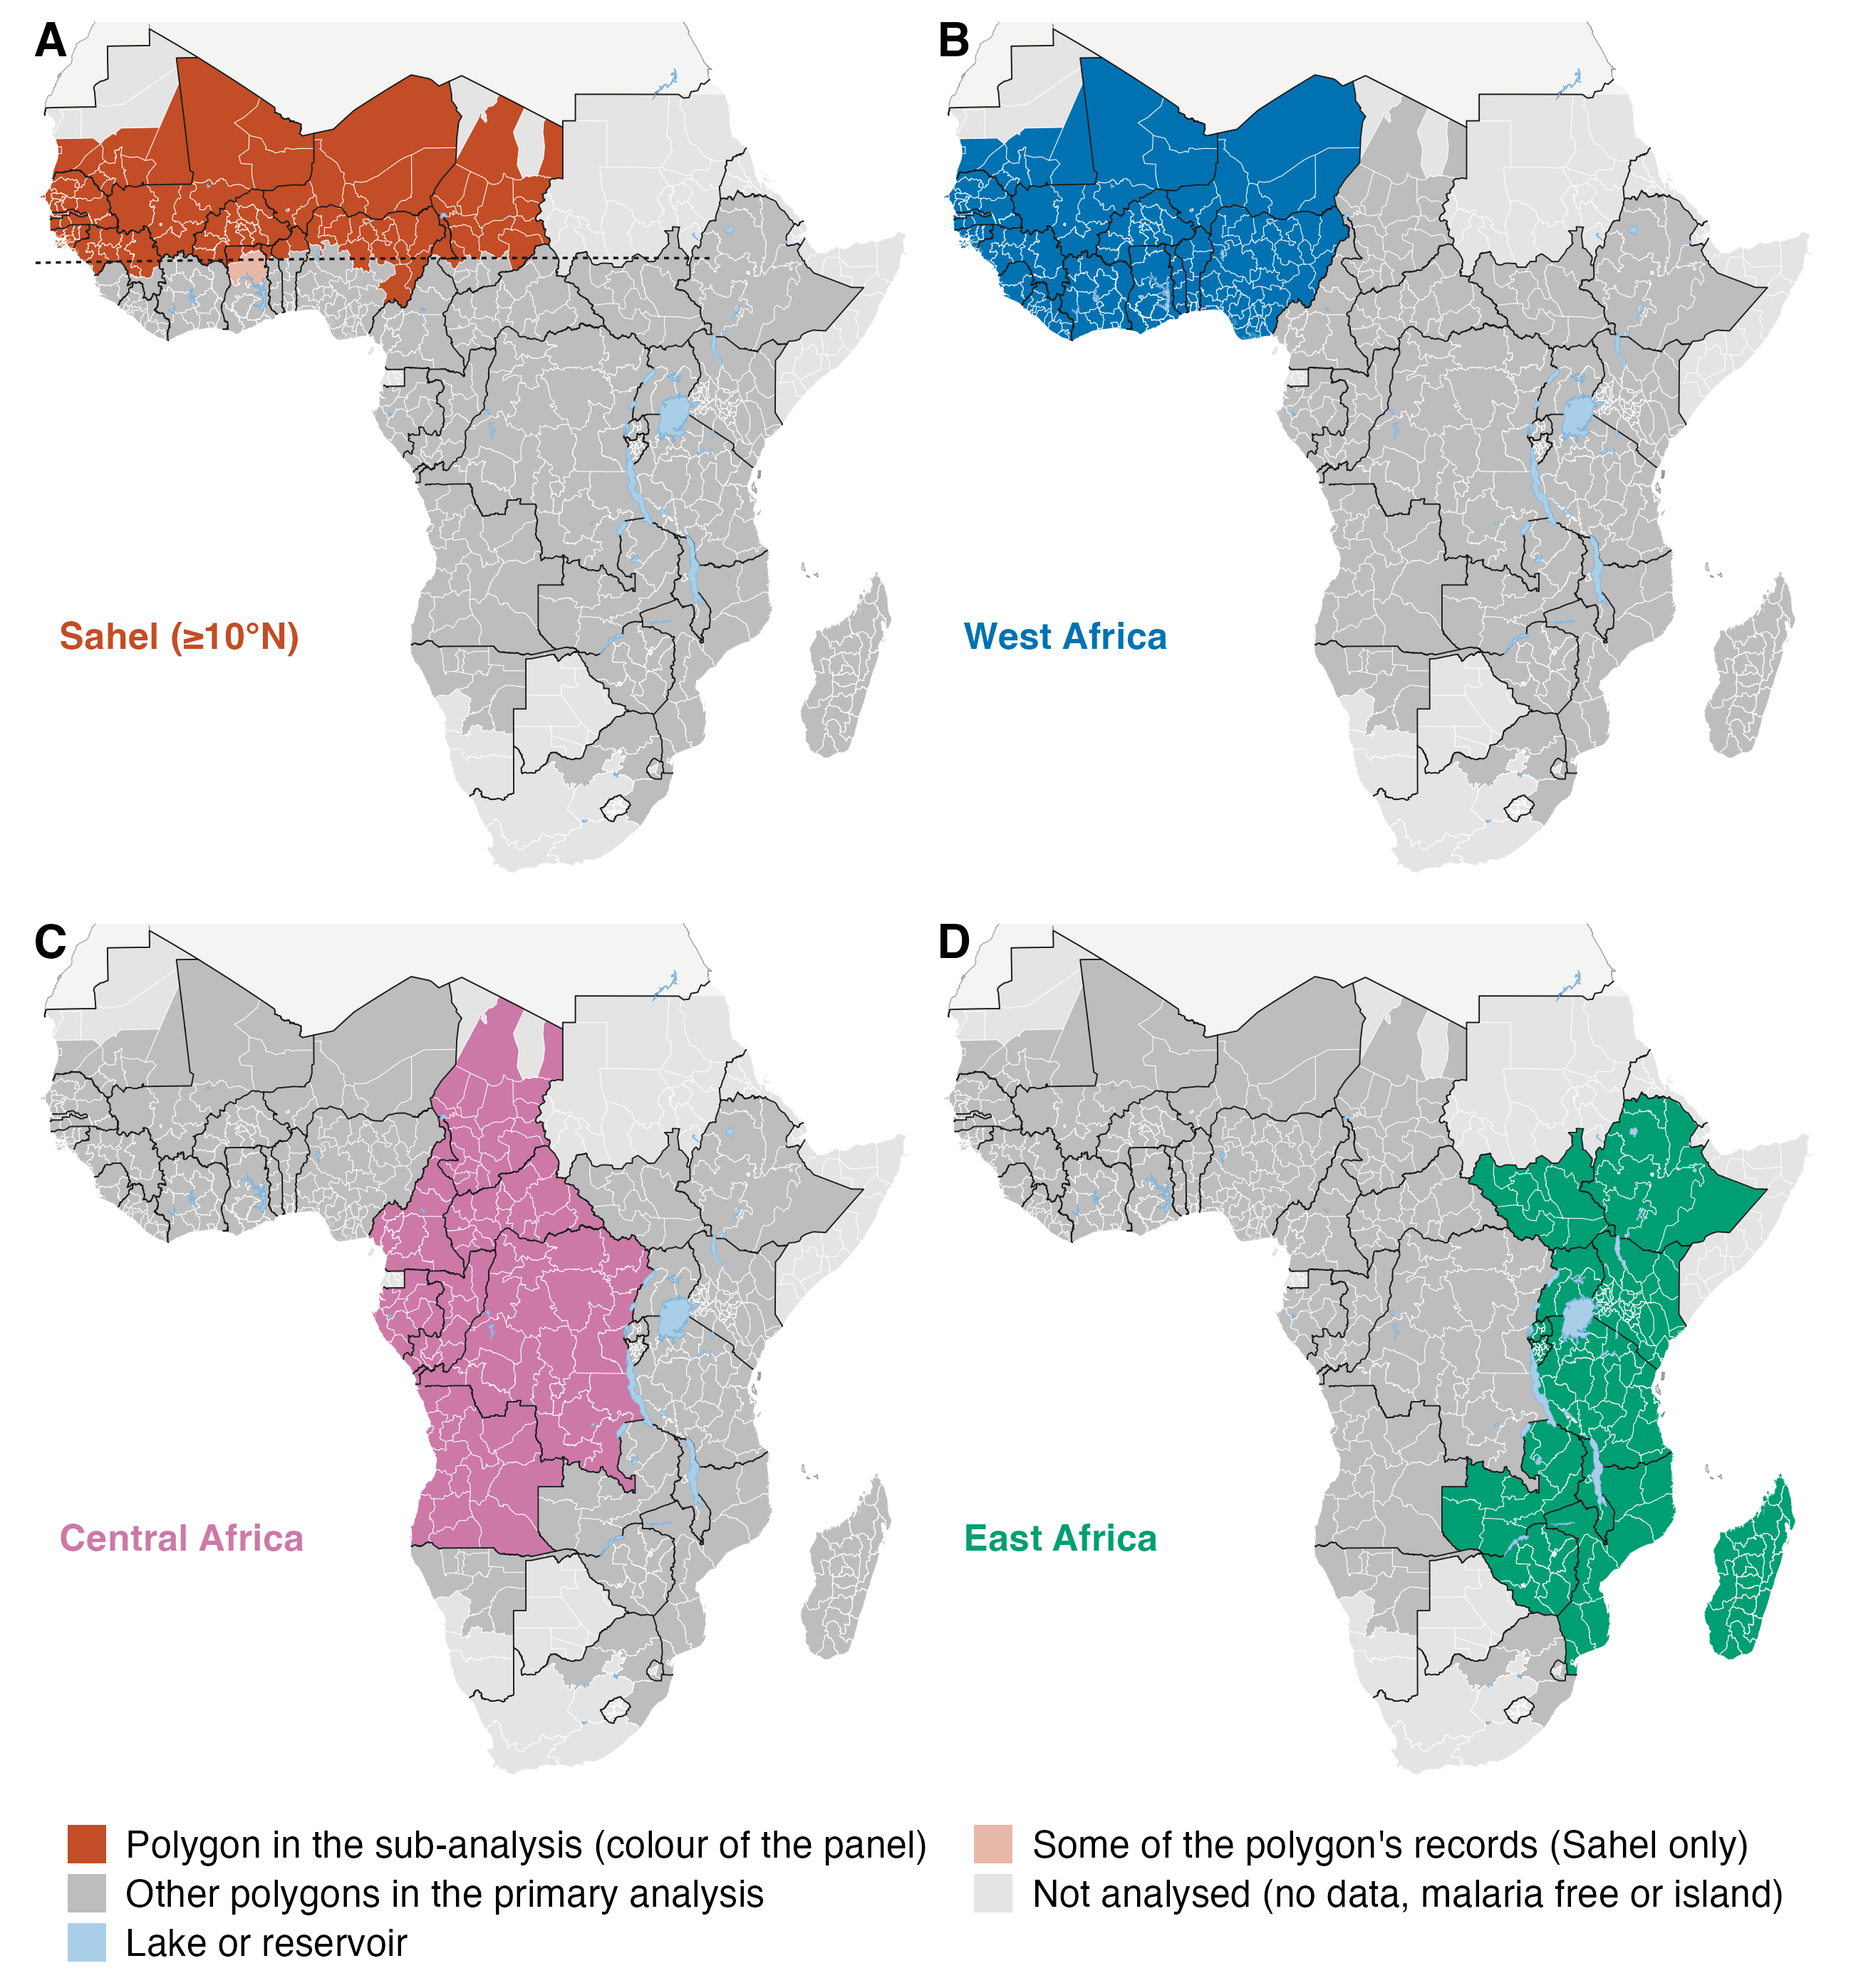
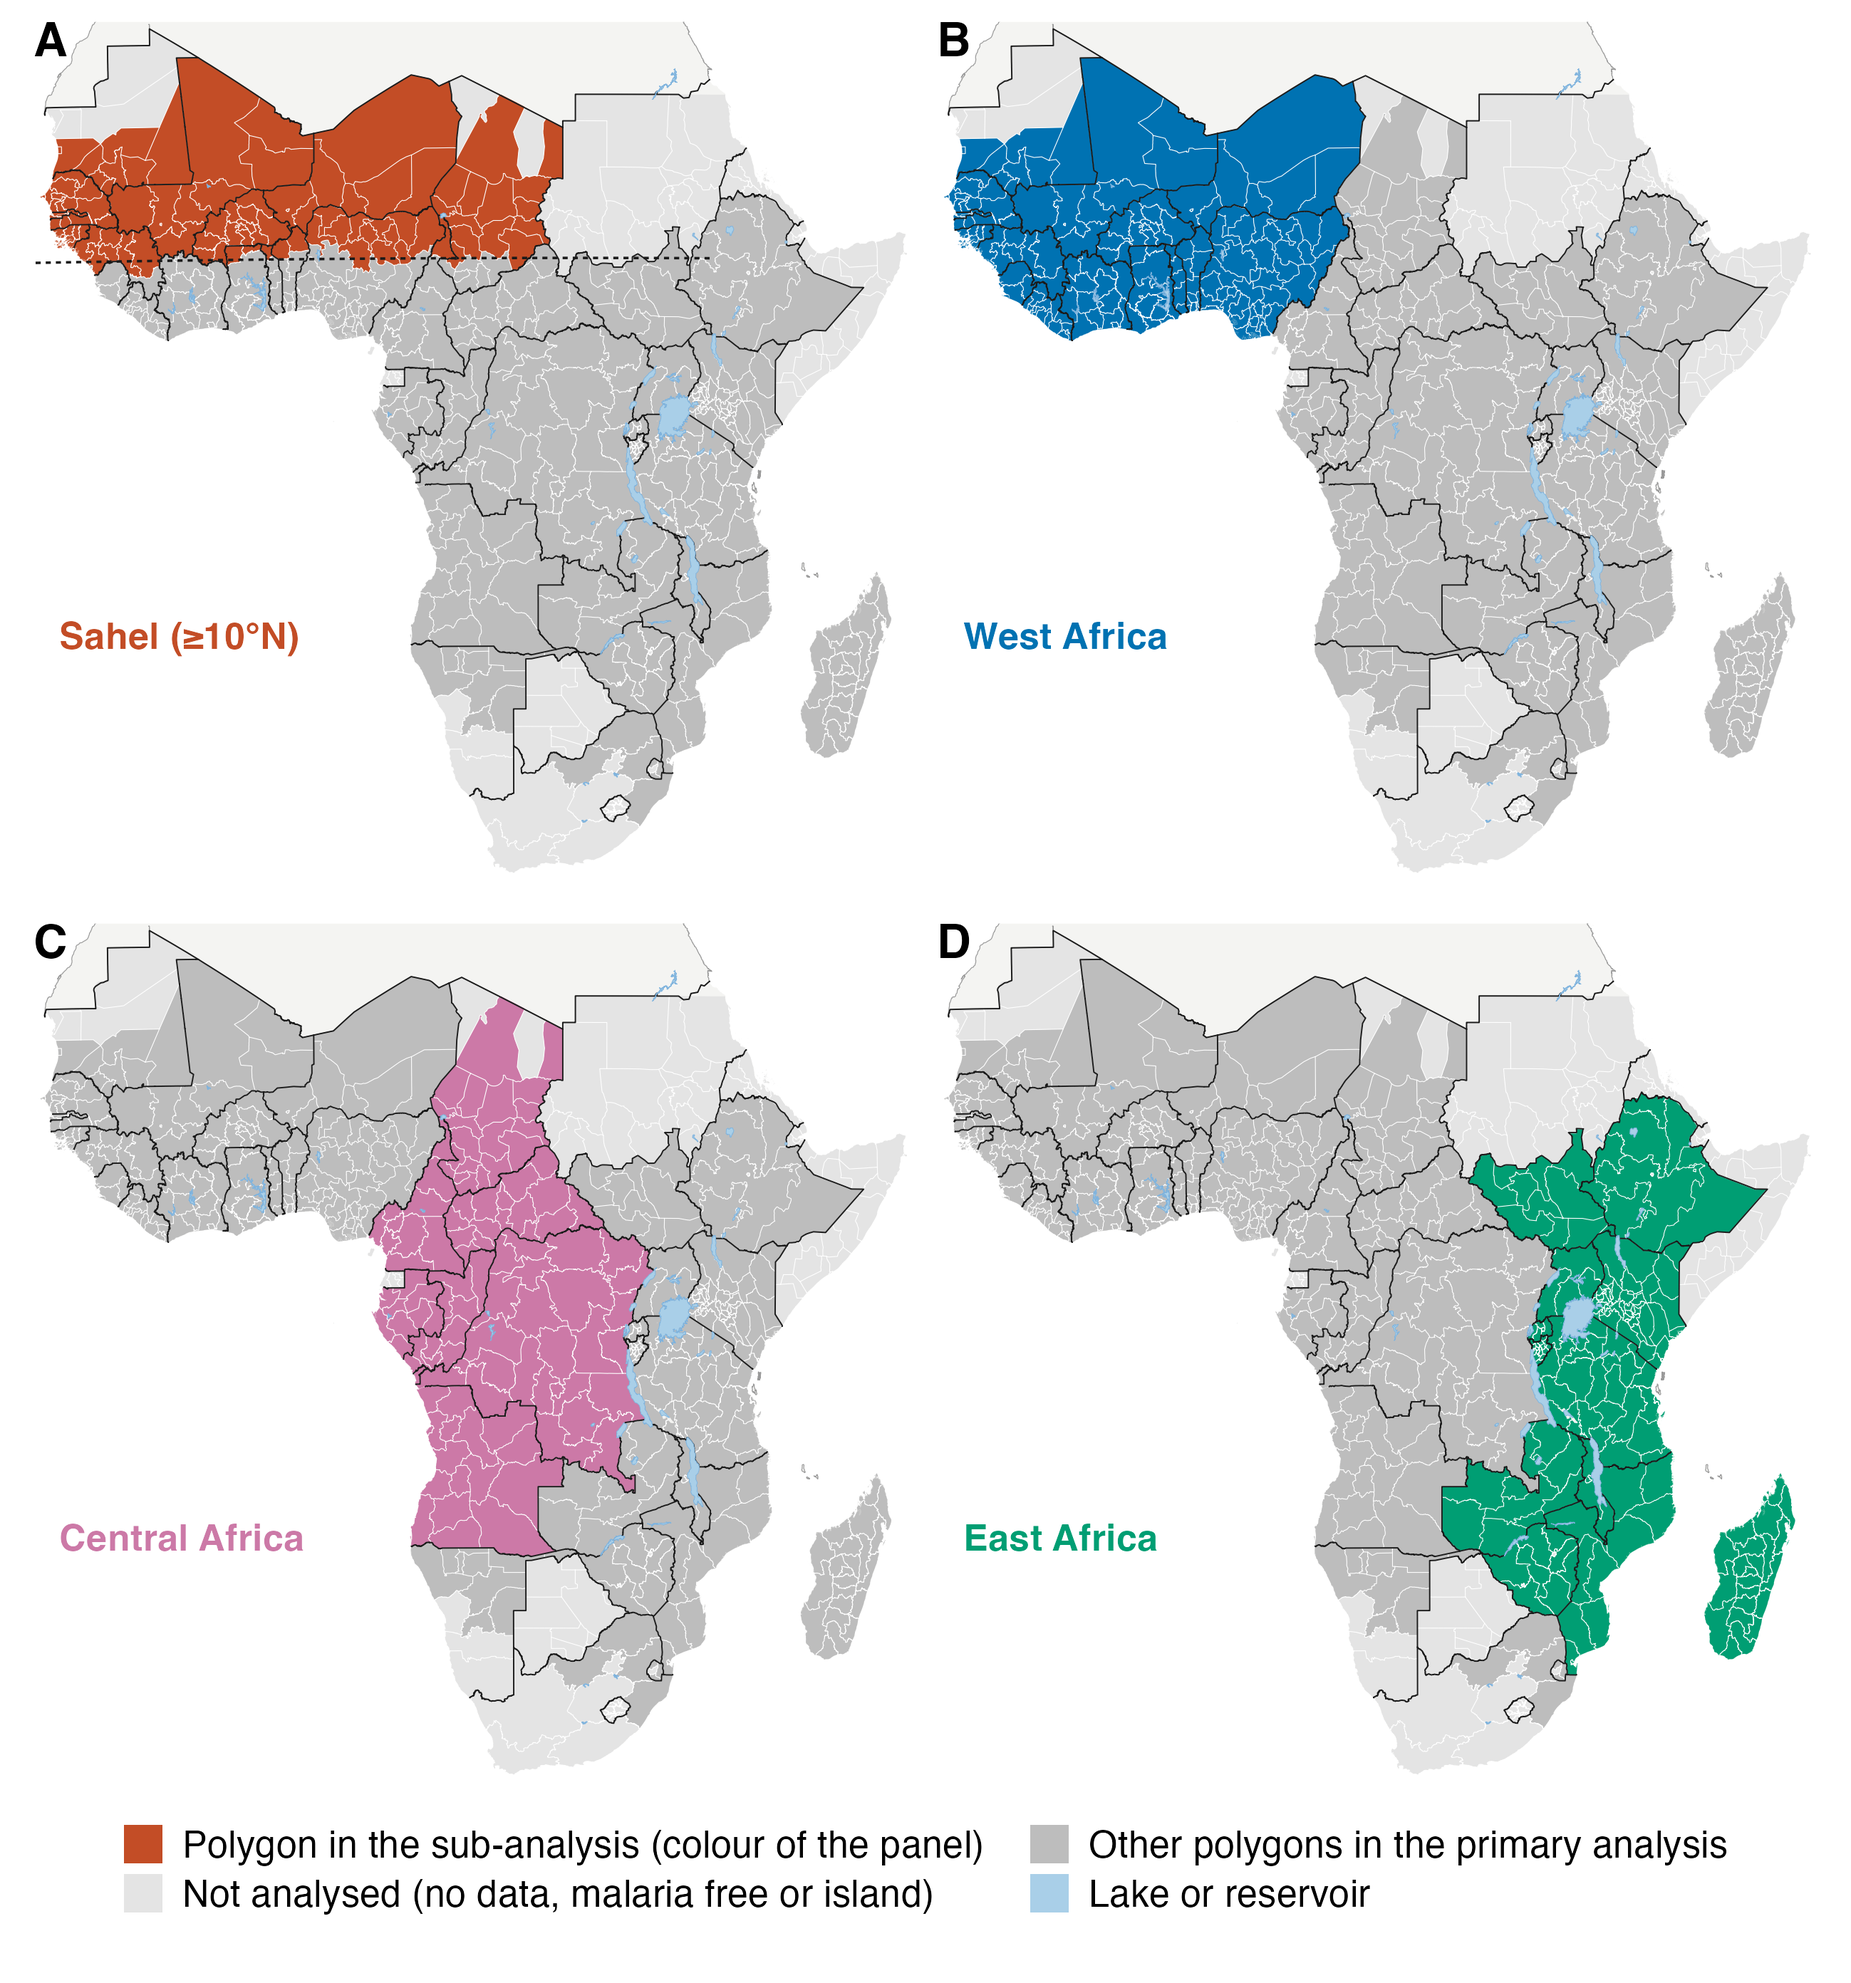
paper/: Sahel by analysis-unit centroid (spline figure, map, country table)

Changed region(s): [[0.0312, 0.9062, 0.9665, 1.0], [0.1871, 0.125, 0.2494, 0.1562], [0.1247, 0.125, 0.1559, 0.1562]]

diff --git a/paper/Supplementary Figures/sfig_pfpr_splines_by_subgroup_caption.md b/paper/Supplementary Figures/sfig_pfpr_splines_by_subgroup_caption.md
@@ -1,3 +1,3 @@
 # Supplementary figure caption: PfPR splines by subgroup
 
-Sensitivity of the fitted PfPR–mortality relationship to the analysis subset. Mortality hazard ratios relative to zero prevalence (PfPR[2–10] = 0) by completed-month age band, from the PfPR-ACM model fitted to the full primary sample (black, with its pointwise 95% conditional interval shaded; the curves of Figure 2) and refitted separately in one subset: records whose survey-region boundary centroid lies at or north of 10°N and west of 36°E, excluding the Horn of Africa (Sahel). Each subset refit uses the same seven separate age-band models, 17 standardised covariates with the full-sample scaling, fixed HIV incidence imputation, gamma = 2 and basis dimensions as the primary analysis, with knots placed at quantiles of the subset's own predictor values. Each curve is solid over the central 95% of its own exposure distribution and dashed from zero to its 2.5th percentile, where the reference is reached by extrapolation into sparse data. Subset sizes. Sahel (≥10°N): 760,586 children, 2,524,874 records, 39,408 deaths, 456 survey × unit areas, 57 surveys, 14 countries. The subsets overlap the full sample and one another, so the curves are not independent and their differences are descriptive; the comparison does not constitute a test of effect modification. Subset intervals are omitted for legibility and are available in the saved curve table.
+Sensitivity of the fitted PfPR–mortality relationship to the analysis subset. Mortality hazard ratios relative to zero prevalence (PfPR[2–10] = 0) by completed-month age band, from the PfPR-ACM model fitted to the full primary sample (black, with its pointwise 95% conditional interval shaded; the curves of Figure 2) and refitted separately in one subset: records whose analysis unit (an admin-1 unit or a union of units) has its centroid at or north of 10°N and west of 36°E, excluding the Horn of Africa (Sahel). Each subset refit uses the same seven separate age-band models, 17 standardised covariates with the full-sample scaling, fixed HIV incidence imputation, gamma = 2 and basis dimensions as the primary analysis, with knots placed at quantiles of the subset's own predictor values. Each curve is solid over the central 95% of its own exposure distribution and dashed from zero to its 2.5th percentile, where the reference is reached by extrapolation into sparse data. Subset sizes. Sahel (≥10°N): 742,851 children, 2,466,685 records, 38,258 deaths, 443 survey × unit areas, 57 surveys, 14 countries. The subsets overlap the full sample and one another, so the curves are not independent and their differences are descriptive; the comparison does not constitute a test of effect modification. Subset intervals are omitted for legibility and are available in the saved curve table.

diff --git a/paper/Supplementary Figures/sfig_subregion_units_map_caption.md b/paper/Supplementary Figures/sfig_subregion_units_map_caption.md
@@ -1,3 +1,3 @@
 # Supplementary figure caption: polygons of the regional sub-analyses
 
-GADM 4.1 admin-1 polygons in each regional sub-analysis of the subgroup refits, in the style of Figure 1. A record belongs to a sub-analysis by its source survey-region: the Sahel holds survey regions whose boundary centroid lies at or north of 10°N (dashed line) and west of 36°E, outside Ethiopia, Eritrea, Somalia and Djibouti; West, Central and East Africa hold the surveys of the UN M49 sub-regions of Figure 1 (Middle Africa as Central Africa). A polygon is coloured when all of its records are in the sub-analysis and in a paler tint when only some are, which happens only in the Sahel, because survey regions and polygons do not coincide; mid grey marks the other polygons of the primary analysis. (A) Sahel (≥10°N): 108 polygons (and 1 partly); 2,524,874 child-band records and 39,408 deaths from 57 surveys in 14 countries. (B) West Africa: 173 polygons; 3,743,776 child-band records and 56,426 deaths from 61 surveys in 15 countries. (C) Central Africa: 113 polygons; 1,224,689 child-band records and 17,579 deaths from 18 surveys in 7 countries. (D) East Africa: 173 polygons; 2,735,874 child-band records and 33,671 deaths from 50 surveys in 12 countries. Southern Africa is not refitted (too few deaths and too little prevalence), so it has no panel.
+GADM 4.1 admin-1 polygons in each regional sub-analysis of the subgroup refits, in the style of Figure 1. The Sahel holds the records whose analysis unit (an admin-1 unit or a union of units) has its centroid at or north of 10°N (dashed line) and west of 36°E, outside Ethiopia, Eritrea, Somalia and Djibouti; West, Central and East Africa hold the surveys of the UN M49 sub-regions of Figure 1 (Middle Africa as Central Africa). A polygon is coloured when its records are in the sub-analysis; mid grey marks the other polygons of the primary analysis. (A) Sahel (≥10°N): 106 polygons; 2,466,685 child-band records and 38,258 deaths from 57 surveys in 14 countries. (B) West Africa: 173 polygons; 3,743,776 child-band records and 56,426 deaths from 61 surveys in 15 countries. (C) Central Africa: 113 polygons; 1,224,689 child-band records and 17,579 deaths from 18 surveys in 7 countries. (D) East Africa: 173 polygons; 2,735,874 child-band records and 33,671 deaths from 50 surveys in 12 countries. Southern Africa is not refitted (too few deaths and too little prevalence), so it has no panel.
